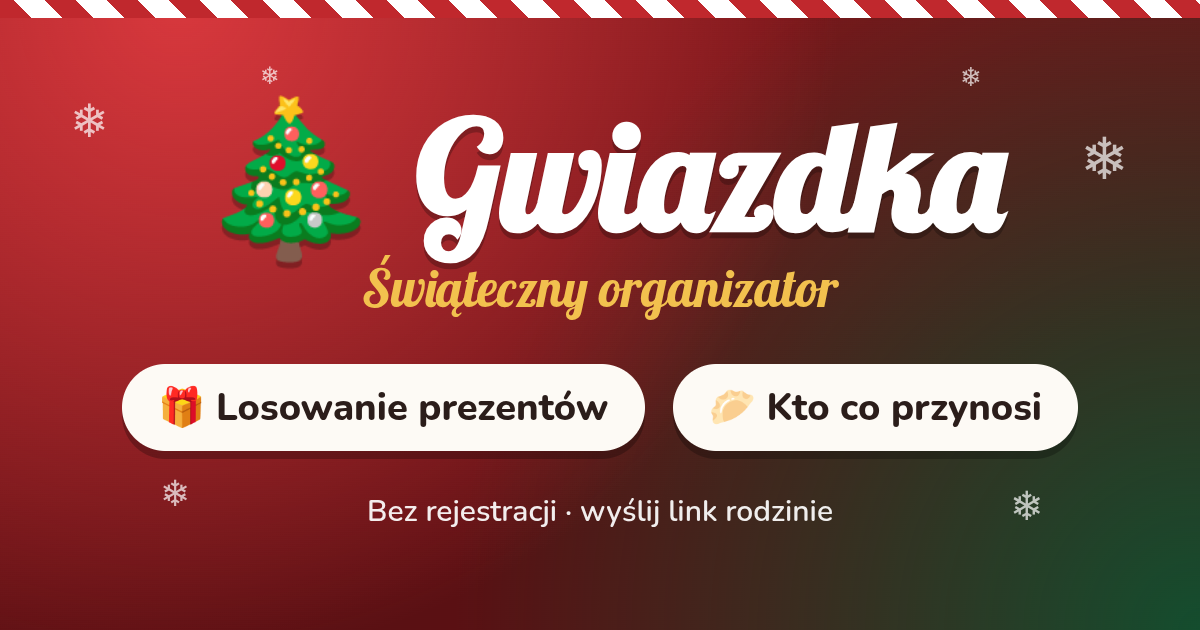
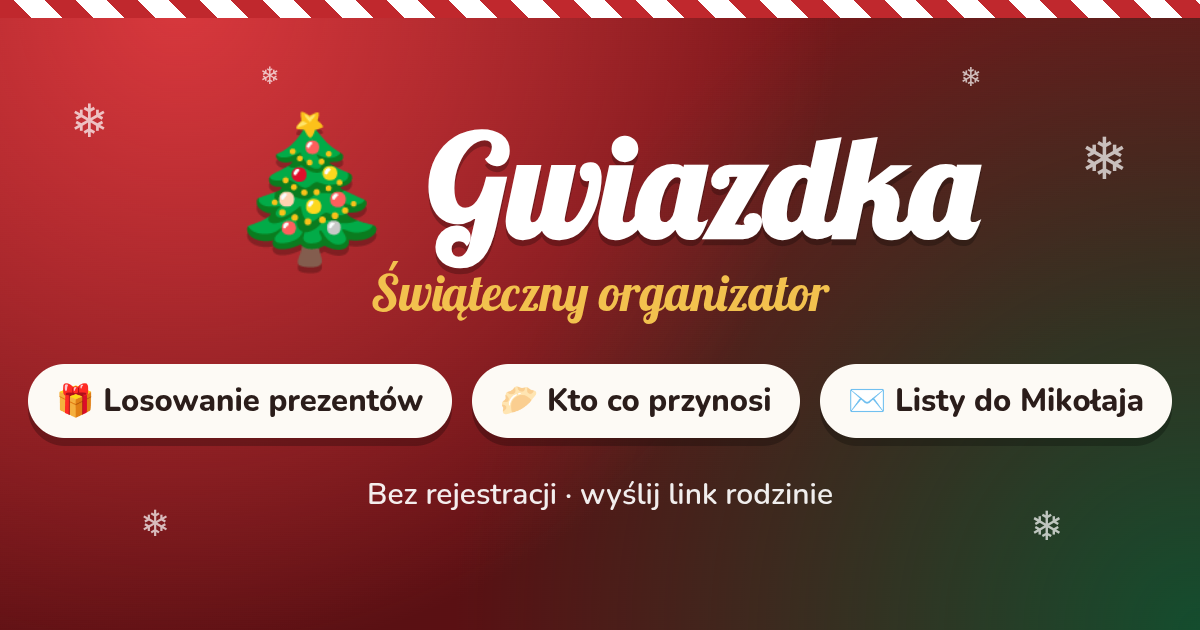
New OG image with all three modes; reword mailbox intro

Changed region(s): [[0.185, 0.1508, 0.8633, 0.5127], [0.0, 0.573, 0.9867, 0.8444], [0.8325, 0.7841, 0.8942, 0.8746]]

diff --git a/client/src/pages/NewMailbox.jsx b/client/src/pages/NewMailbox.jsx
@@ -34,8 +34,8 @@ export default function NewMailbox() {
       <div className="card">
         <h1 className="festive">Skrzynka gotowa! 📮</h1>
         <p>
-          <strong>{created.name}</strong> — wyślij link rodzinie. Każdy napisze swój list do Mikołaja i wrzuci go do
-          skrzynki, a potem będzie można je razem poczytać.
+          <strong>{created.name}</strong> — wyślij link rodzinie. Każdy może napisać swój list do Mikołaja i wrzucić go
+          do skrzynki, a potem będzie można je razem poczytać.
         </p>
         <CopyField label="🔗 Link do skrzynki — wyślij rodzinie" value={links.mailbox(created.slug)} />
         <Share url={links.mailbox(created.slug)} text={`✉ ${created.name} — napisz list do Świętego Mikołaja:`} />
@@ -54,8 +54,8 @@ export default function NewMailbox() {
       <Link className="back-link" to="/">← Wróć</Link>
       <h1 className="festive">Listy do Mikołaja ✉</h1>
       <p>
-        Załóż wspólną skrzynkę na listy do Świętego Mikołaja. Każdy — dzieci, dziadkowie, ciocie — napisze swój list,
-        a w skrzynce będzie można je otwierać i czytać.
+        Załóż wspólną skrzynkę na listy do Świętego Mikołaja. Każdy może napisać swój list, a w skrzynce będzie można je
+        otwierać i czytać.
       </p>
       <form onSubmit={submit}>
         <label className="field">
